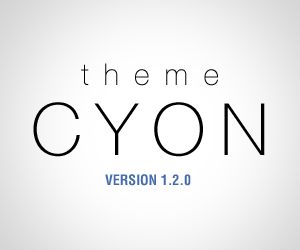
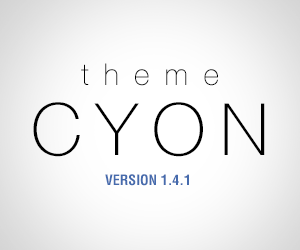
WC update support

diff --git a/assets/css/woocommerce.css b/assets/css/woocommerce.css
@@ -10,10 +10,10 @@ ins { padding:0; background:none; }
 .woocommerce-ordering { float:right; margin-bottom:20px; }
 
 .products { clear:both; }
-.products li .add_to_cart_button { position:relative; }
+.products li .add_to_cart_button { position:relative; height:30px; line-height:30px; padding-top:0; padding-bottom:0; }
 .products li .loading { cursor:default; background:#fff; color:#000; }
-.products li .loading:before { content:''; width:16px; height:16px; float:right; position:absolute; top:7px; left:9px; background:url(../images/ajax-loader.gif) no-repeat 50% 50%; }
-.products li .added::before { content:''; width:16px; height:16px; float:right; position:absolute; top:7px; left:9px; background:url(../images/success.png) no-repeat 50% 50%; }
+.products li .loading:before { content:''; width:16px; height:16px; float:left; position:relative; top:7px; background:url(../images/ajax-loader.gif) no-repeat 50% 50%; }
+.products li .added::before { content:''; width:16px; height:16px; float:left; position:relative; top:7px; background:url(../images/success.png) no-repeat 50% 50%; }
 
 .price, .amount { color:#3b9c00; }
 .price ins .amount { font-size:150%; }
@@ -252,7 +252,7 @@ dl.customer_details dd {
 	filter: progid:DXImageTransform.Microsoft.gradient( startColorstr='#fcfff4', endColorstr='#c1c1c1',GradientType=0 ); /* IE6-8 */
 }
 .variations_form button, .add_to_cart_button, .cart button, .cart input[type=submit], #commentform input[type=submit], .checkout input[type=submit], .login input[type=submit], .checkout_coupon input[type=submit], .shipping_calculator button {
-	height:auto; padding:5px 10px; line-height:normal;
+	height:auto; padding:7px 10px; line-height:normal;
 }
 .variations_form button:hover, .add_to_cart_button:hover, .cart button:hover, #commentform input[type=submit]:hover, .cart input[type=submit]:hover, .shipping_calculator button:hover, .checkout input[type=submit]:hover, .login input[type=submit]:hover, .checkout_coupon input[type=submit]:hover, .button:hover, .edit:hover {
 	color:#222; border-color:#aaa; 

diff --git a/style.css b/style.css
@@ -3,7 +3,7 @@ Theme Name: 	Theme Cyon
 Description: 	A framework theme with a complete theme options panel.
 Author:			Greater Than Website
 Author 			URI: http://gtwebsite.com/
-Version: 		1.3.5
+Version: 		1.4.1
 */
 
 /* =Reset default browser CSS.
@@ -250,7 +250,7 @@ input.error:-moz-placeholder, textarea.error:-moz-placeholder {
 	color:#fff;
 }
 .cyonform button, .cyonform input[type=submit], .cyonform input[type=reset], .cyonform input[type=button] {
-	height:auto; padding:5px 10px; line-height:normal;
+	height:auto; padding:7px 10px; line-height:normal;
 }
 
 /* =Classes & IDs
@@ -743,12 +743,12 @@ p.nocomments {
 /* =Newsletter & Contact Form
 ----------------------------------------------- */
 .cyon-newsletter legend, .cyon-contact-form legend {
-	margin-bottom:5px;
+	margin-bottom:10px;
 }
 .cyon-newsletter p, .cyon-contact-form p {
 	margin-bottom:5px;
 }
-.cyon-newsletter label, .widget .cyon-contact-form label {
+.cyon-newsletter label {
 	display:none;
 }
 .cyon-newsletter p input, .widget .cyon-contact-form p input {

diff --git a/includes/overrides/woocommerce.php b/includes/overrides/woocommerce.php
@@ -1,5 +1,8 @@
 <?php
 
+/* Declare Support */
+add_theme_support( 'woocommerce' );
+
 /* Add own CSS and JS */
 function cyon_woo_header_js_css_hook(){ ?>
 	<?php if(get_option('woocommerce_frontend_css') == 'no'){ ?>
@@ -43,13 +46,16 @@ function cyon_woo_header_js_css_hook(){ ?>
 				event.preventDefault();
 			});
 			<?php } ?>
-			jQuery('.woocommerce_ordering select, .variations_form select, .checkout input[type=radio], .checkout input[type=checkbox], .woocommerce-ordering select').uniform();
+			jQuery('.woocommerce_ordering select, .variations_form select, .checkout input[type=radio], .checkout input[type=checkbox], .woocommerce-ordering select, select.state_select').uniform();
 			jQuery('.payment_methods input.input-radio').live('click', function() {
 				jQuery('.checkout input[type=radio], .checkout input[type=checkbox], .checkout input[type=file]').uniform();
 			});
 			jQuery('body').bind('update_checkout', function(){
 				clearTimeout(updateTimer);
 				jQuery('.checkout input[type=radio], .checkout input[type=checkbox], .checkout input[type=file]').uniform();
+			});
+			jQuery('select.country_to_state').live('change', function() {
+				jQuery('select.state_select').uniform();
 			});
 		});
 	</script>
@@ -78,6 +84,24 @@ add_action( 'wp', 'cyon_woo_init' );
 /* Override default breadcrumb */
 remove_action( 'woocommerce_before_main_content', 'woocommerce_breadcrumb',20);
 
+/* Override default container */
+remove_action( 'woocommerce_before_main_content', 'woocommerce_output_content_wrapper', 10);
+remove_action( 'woocommerce_after_main_content', 'woocommerce_output_content_wrapper_end', 10);
+add_action('woocommerce_before_main_content', 'cyon_woocommerce_output_content_wrapper', 10);
+add_action('woocommerce_after_main_content', 'cyon_woocommerce_output_content_wrapper_end', 10);
+ 
+function cyon_woocommerce_output_content_wrapper() { ?>
+		<!-- Center -->
+		<div id="primary">
+			<?php cyon_primary_before(); ?>
+			<div id="content" role="main">		
+<?php }
+ 
+function cyon_woocommerce_output_content_wrapper_end() { ?>
+			</div>
+			<?php cyon_primary_after(); ?>
+		</div>
+<?php }
 
 /* Override Single Product Image */
 function cyon_show_product_images(){

diff --git a/includes/widgets/subpage.php b/includes/widgets/subpage.php
@@ -12,12 +12,22 @@ class CyonSupageWidget extends WP_Widget {
 	function form($instance){
 		// Start adding your fields here
 		$instance = wp_parse_args( (array) $instance, array(
-			'title' 		=> 'Subpages'
+			'title' 		=> 'Subpages',
+			'depths' 		=> '0'
 		) );
 		$title = $instance['title'];
+		$depths = $instance['depths'];
 
 		?>
-		  <p><label for="<?php echo $this->get_field_id('title'); ?>"><?php _e('Title') ?>: <input class="widefat" id="<?php echo $this->get_field_id('title'); ?>" name="<?php echo $this->get_field_name('title'); ?>" type="text" value="<?php echo attribute_escape($title); ?>" /></label></p>
+			<p><label for="<?php echo $this->get_field_id('title'); ?>"><?php _e('Title') ?>: <input class="widefat" id="<?php echo $this->get_field_id('title'); ?>" name="<?php echo $this->get_field_name('title'); ?>" type="text" value="<?php echo attribute_escape($title); ?>" /></label></p>
+			<p><label for="<?php echo $this->get_field_id('depths'); ?>"><?php _e('Depths') ?>:</label>
+				<?php $options = array( '0'=>__('Nested'), '-1'=>__('Flat'), '1'=>__('Top-level pages'), '2'=>__('Up to 2 depths'), '3'=>__('Up to 3 depths')); ?>
+				<select id="<?php echo $this->get_field_id('depths'); ?>" name="<?php echo $this->get_field_name('depths'); ?>" class="widefat">
+				<?php foreach ( $options as $i=>$opt ) : ?>
+					<option value="<?php echo $i?>" <?php echo $i == $instance['depths'] ? 'selected' : ''?>><?php echo $opt ?></option>
+				<?php endforeach; ?>
+				</select>
+			</p>
 
 		<?php
 	}
@@ -27,6 +37,7 @@ class CyonSupageWidget extends WP_Widget {
 		$instance = $old_instance;
 		// Override new values of each fields
 		$instance['title'] = $new_instance['title'];
+		$instance['depths'] = $new_instance['depths'];
 
 		return $instance;
 	}
@@ -55,7 +66,7 @@ class CyonSupageWidget extends WP_Widget {
 				echo $before_title . $title . $after_title;;
 			}
 			echo '<ul class="widget-content">';
-			echo wp_list_pages(array('child_of'=>$parent,'title_li'=>''));
+			echo wp_list_pages(array('child_of'=>$parent,'title_li'=>'','depth'=>$instance['depths']));
 			// Widget code here
 	 
 			// End widget

diff --git a/includes/widgets/ads.php b/includes/widgets/ads.php
@@ -32,42 +32,42 @@ class CyonAdsWidget extends WP_Widget {
 		$instance = wp_parse_args( (array) $instance, array(
 			'title' 		=> __('Sponsors'),
 			'ad_img_1'	=> '',
-			'ad_url_1'	=> 'http://',
+			'ad_url_1'	=> '',
 			'ad_name_1'	=> '',
 			'ad_pop_1'	=> 'parent',
 			'ad_img_2'	=> '',
-			'ad_url_2'	=> 'http://',
+			'ad_url_2'	=> '',
 			'ad_name_2'	=> '',
 			'ad_pop_2'	=> 'parent',
 			'ad_img_3'	=> '',
-			'ad_url_3'	=> 'http://',
+			'ad_url_3'	=> '',
 			'ad_name_3'	=> '',
 			'ad_pop_3'	=> 'parent',
 			'ad_img_4'	=> '',
-			'ad_url_4'	=> 'http://',
+			'ad_url_4'	=> '',
 			'ad_name_4'	=> '',
 			'ad_pop_4'	=> 'parent',
 			'ad_img_5'	=> '',
-			'ad_url_5'	=> 'http://',
+			'ad_url_5'	=> '',
 			'ad_name_5'	=> '',
 			'ad_pop_5'	=> 'parent',
 			'ad_img_6'	=> '',
-			'ad_url_6'	=> 'http://',
+			'ad_url_6'	=> '',
 			'ad_name_6'	=> '',
 			'ad_pop_7'	=> 'parent',
 			'ad_img_7'	=> '',
-			'ad_url_7'	=> 'http://',
+			'ad_url_7'	=> '',
 			'ad_name_7'	=> '',
 			'ad_img_8'	=> '',
-			'ad_url_8'	=> 'http://',
+			'ad_url_8'	=> '',
 			'ad_name_8'	=> '',
 			'ad_pop_8'	=> 'parent',
 			'ad_img_9'	=> '',
-			'ad_url_9'	=> 'http://',
+			'ad_url_9'	=> '',
 			'ad_name_9'	=> '',
 			'ad_pop_9'	=> 'parent',
 			'ad_img_10'	=> '',
-			'ad_url_10'	=> 'http://',
+			'ad_url_10'	=> '',
 			'ad_name_10'=> '',
 			'ad_pop_10'	=> 'parent',
 			'cols'		=> 1,
@@ -238,9 +238,9 @@ class CyonAdsWidget extends WP_Widget {
 
 	function https_cleanup( $imageurl = '' ) {
 		if( isset($_SERVER["HTTPS"]) && $_SERVER["HTTPS"] == "on" ) {
-			$imageurl = str_replace('http://', 'https://', $imageurl);
+			$imageurl = str_replace('', 'https://', $imageurl);
 		} else {
-			$imageurl = str_replace('https://', 'http://', $imageurl);
+			$imageurl = str_replace('https://', '', $imageurl);
 		}
 		return $imageurl;
 	}

diff --git a/includes/widgets/twitterupdate.php b/includes/widgets/twitterupdate.php
@@ -26,7 +26,7 @@ class CyonTwitterWidget extends WP_Widget {
 		?>
 		  <p><label for="<?php echo $this->get_field_id('title'); ?>"><?php _e('Title') ?>: <input class="widefat" id="<?php echo $this->get_field_id('title'); ?>" name="<?php echo $this->get_field_name('title'); ?>" type="text" value="<?php echo attribute_escape($title); ?>" /></label></p>
   		  <p><label for="<?php echo $this->get_field_id('count'); ?>"><?php _e('Number of tweets') ?>: <input class="widefat" id="<?php echo $this->get_field_id('count'); ?>" name="<?php echo $this->get_field_name('count'); ?>" type="text" value="<?php echo attribute_escape($count); ?>" /></label></p>
-			<?php $options = array( 1=>'List', 'Fade');
+			<?php $options = array( 1=>__('List'), __('Fade'));
 			?>
   		  <p><label for="<?php echo $this->get_field_id('style'); ?>"><?php _e('View Style') ?>: <select class="widefat" id="<?php echo $this->get_field_id('style'); ?>" name="<?php echo $this->get_field_name('style'); ?>">
 				<?php foreach ( $options as $i=>$opt ) : ?>
